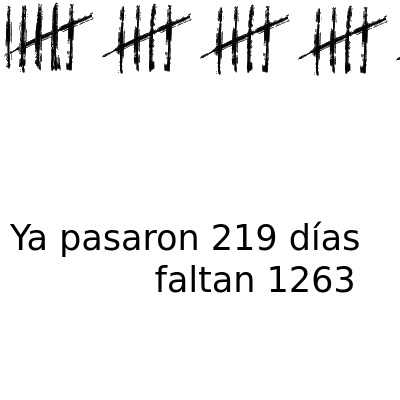
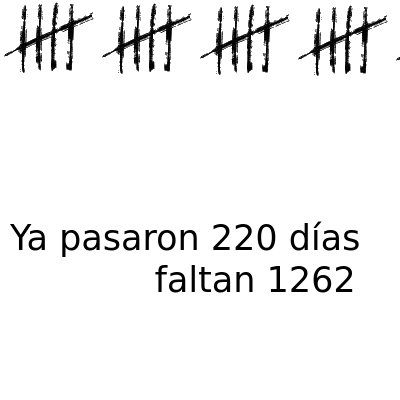
deploy: 28882f26f23b9f53dac6c4991168e610486d0e44

Changed region(s): [[0.0, 0.0, 0.15, 0.18], [0.57, 0.54, 0.69, 0.63], [0.84, 0.66, 0.9, 0.75]]

diff --git a/index.html b/index.html
@@ -3,19 +3,19 @@
   <head>
     <meta charset='utf-8'>
     <meta http-equiv='X-UA-Compatible' content='IE=edge'>
-    <title>Ya pasaron 219 días y faltan 1263</title>
-    <meta name="description" content="Ya pasaron 219 días y faltan 1263">
-    <meta itemprop="name" content="Ya pasaron 219 días y faltan 1263">
-    <meta itemprop="description" content="Ya pasaron 219 días y faltan 1263">
+    <title>Ya pasaron 220 días y faltan 1262</title>
+    <meta name="description" content="Ya pasaron 220 días y faltan 1262">
+    <meta itemprop="name" content="Ya pasaron 220 días y faltan 1262">
+    <meta itemprop="description" content="Ya pasaron 220 días y faltan 1262">
     <meta name="twitter:card" content="summary">
-    <meta name="twitter:title" content="Ya pasaron 219 días y faltan 1263">
-    <meta name="twitter:description" content="Ya pasaron 219 días y faltan 1263">
+    <meta name="twitter:title" content="Ya pasaron 220 días y faltan 1262">
+    <meta name="twitter:description" content="Ya pasaron 220 días y faltan 1262">
     <meta name="twitter:creator" content="@FloriusWasTaken">
     <meta name="twitter:image" content="https://pasaron.meme.ar/capture.png">
-    <meta property="og:title" content="Ya pasaron 219 días y faltan 1263">
-    <meta property="og:description" content="Ya pasaron 219 días y faltan 1263">
+    <meta property="og:title" content="Ya pasaron 220 días y faltan 1262">
+    <meta property="og:description" content="Ya pasaron 220 días y faltan 1262">
     <meta property="og:url" content="https://pasaron.meme.ar">
-    <meta property="og:site_name" content="Ya pasaron 219 días y faltan 1263">
+    <meta property="og:site_name" content="Ya pasaron 220 días y faltan 1262">
     <meta property="og:type" content="website">
     <meta property="og:image" content="https://pasaron.meme.ar/capture.png">
     <meta name="theme-color" content="#dc143c">
@@ -69,18 +69,16 @@
         padding: 0;
       }
     </style>
-    <title>Ya pasaron 219 días y faltan 1263</title>
+    <title>Ya pasaron 220 días y faltan 1262</title>
   </head>
   <body>
     <div id="main">
-      <img src="img/5.png"/><img src="img/5.png"/><img src="img/5.png"/><img src="img/5.png"/><img src="img/5.png"/><img src="img/5.png"/><img src="img/5.png"/><img src="img/5.png"/><img src="img/5.png"/><img src="img/5.png"/><img src="img/5.png"/><img src="img/5.png"/><img src="img/5.png"/><img src="img/5.png"/><img src="img/5.png"/><img src="img/5.png"/><img src="img/5.png"/><img src="img/5.png"/><img src="img/5.png"/><img src="img/5.png"/><img src="img/5.png"/><img src="img/5.png"/><img src="img/5.png"/><img src="img/5.png"/><img src="img/5.png"/><img src="img/5.png"/><img src="img/5.png"/><img src="img/5.png"/><img src="img/5.png"/><img src="img/5.png"/><img src="img/5.png"/><img src="img/5.png"/><img src="img/5.png"/><img src="img/5.png"/><img src="img/5.png"/><img src="img/5.png"/><img src="img/5.png"/><img src="img/5.png"/><img src="img/5.png"/><img src="img/5.png"/><img src="img/5.png"/><img src="img/5.png"/><img src="img/5.png"/>
-      
-        <img src="img/4.png"/>
+      <img src="img/5.png"/><img src="img/5.png"/><img src="img/5.png"/><img src="img/5.png"/><img src="img/5.png"/><img src="img/5.png"/><img src="img/5.png"/><img src="img/5.png"/><img src="img/5.png"/><img src="img/5.png"/><img src="img/5.png"/><img src="img/5.png"/><img src="img/5.png"/><img src="img/5.png"/><img src="img/5.png"/><img src="img/5.png"/><img src="img/5.png"/><img src="img/5.png"/><img src="img/5.png"/><img src="img/5.png"/><img src="img/5.png"/><img src="img/5.png"/><img src="img/5.png"/><img src="img/5.png"/><img src="img/5.png"/><img src="img/5.png"/><img src="img/5.png"/><img src="img/5.png"/><img src="img/5.png"/><img src="img/5.png"/><img src="img/5.png"/><img src="img/5.png"/><img src="img/5.png"/><img src="img/5.png"/><img src="img/5.png"/><img src="img/5.png"/><img src="img/5.png"/><img src="img/5.png"/><img src="img/5.png"/><img src="img/5.png"/><img src="img/5.png"/><img src="img/5.png"/><img src="img/5.png"/><img src="img/5.png"/>
       
     </div>
     <footer id="footer">
       <marquee id="marquee" class="is-vertical-align">
-        Ya pasaron 219 días y faltan 1263
+        Ya pasaron 220 días y faltan 1262
       </marquee>
       <ul>
         <li>
